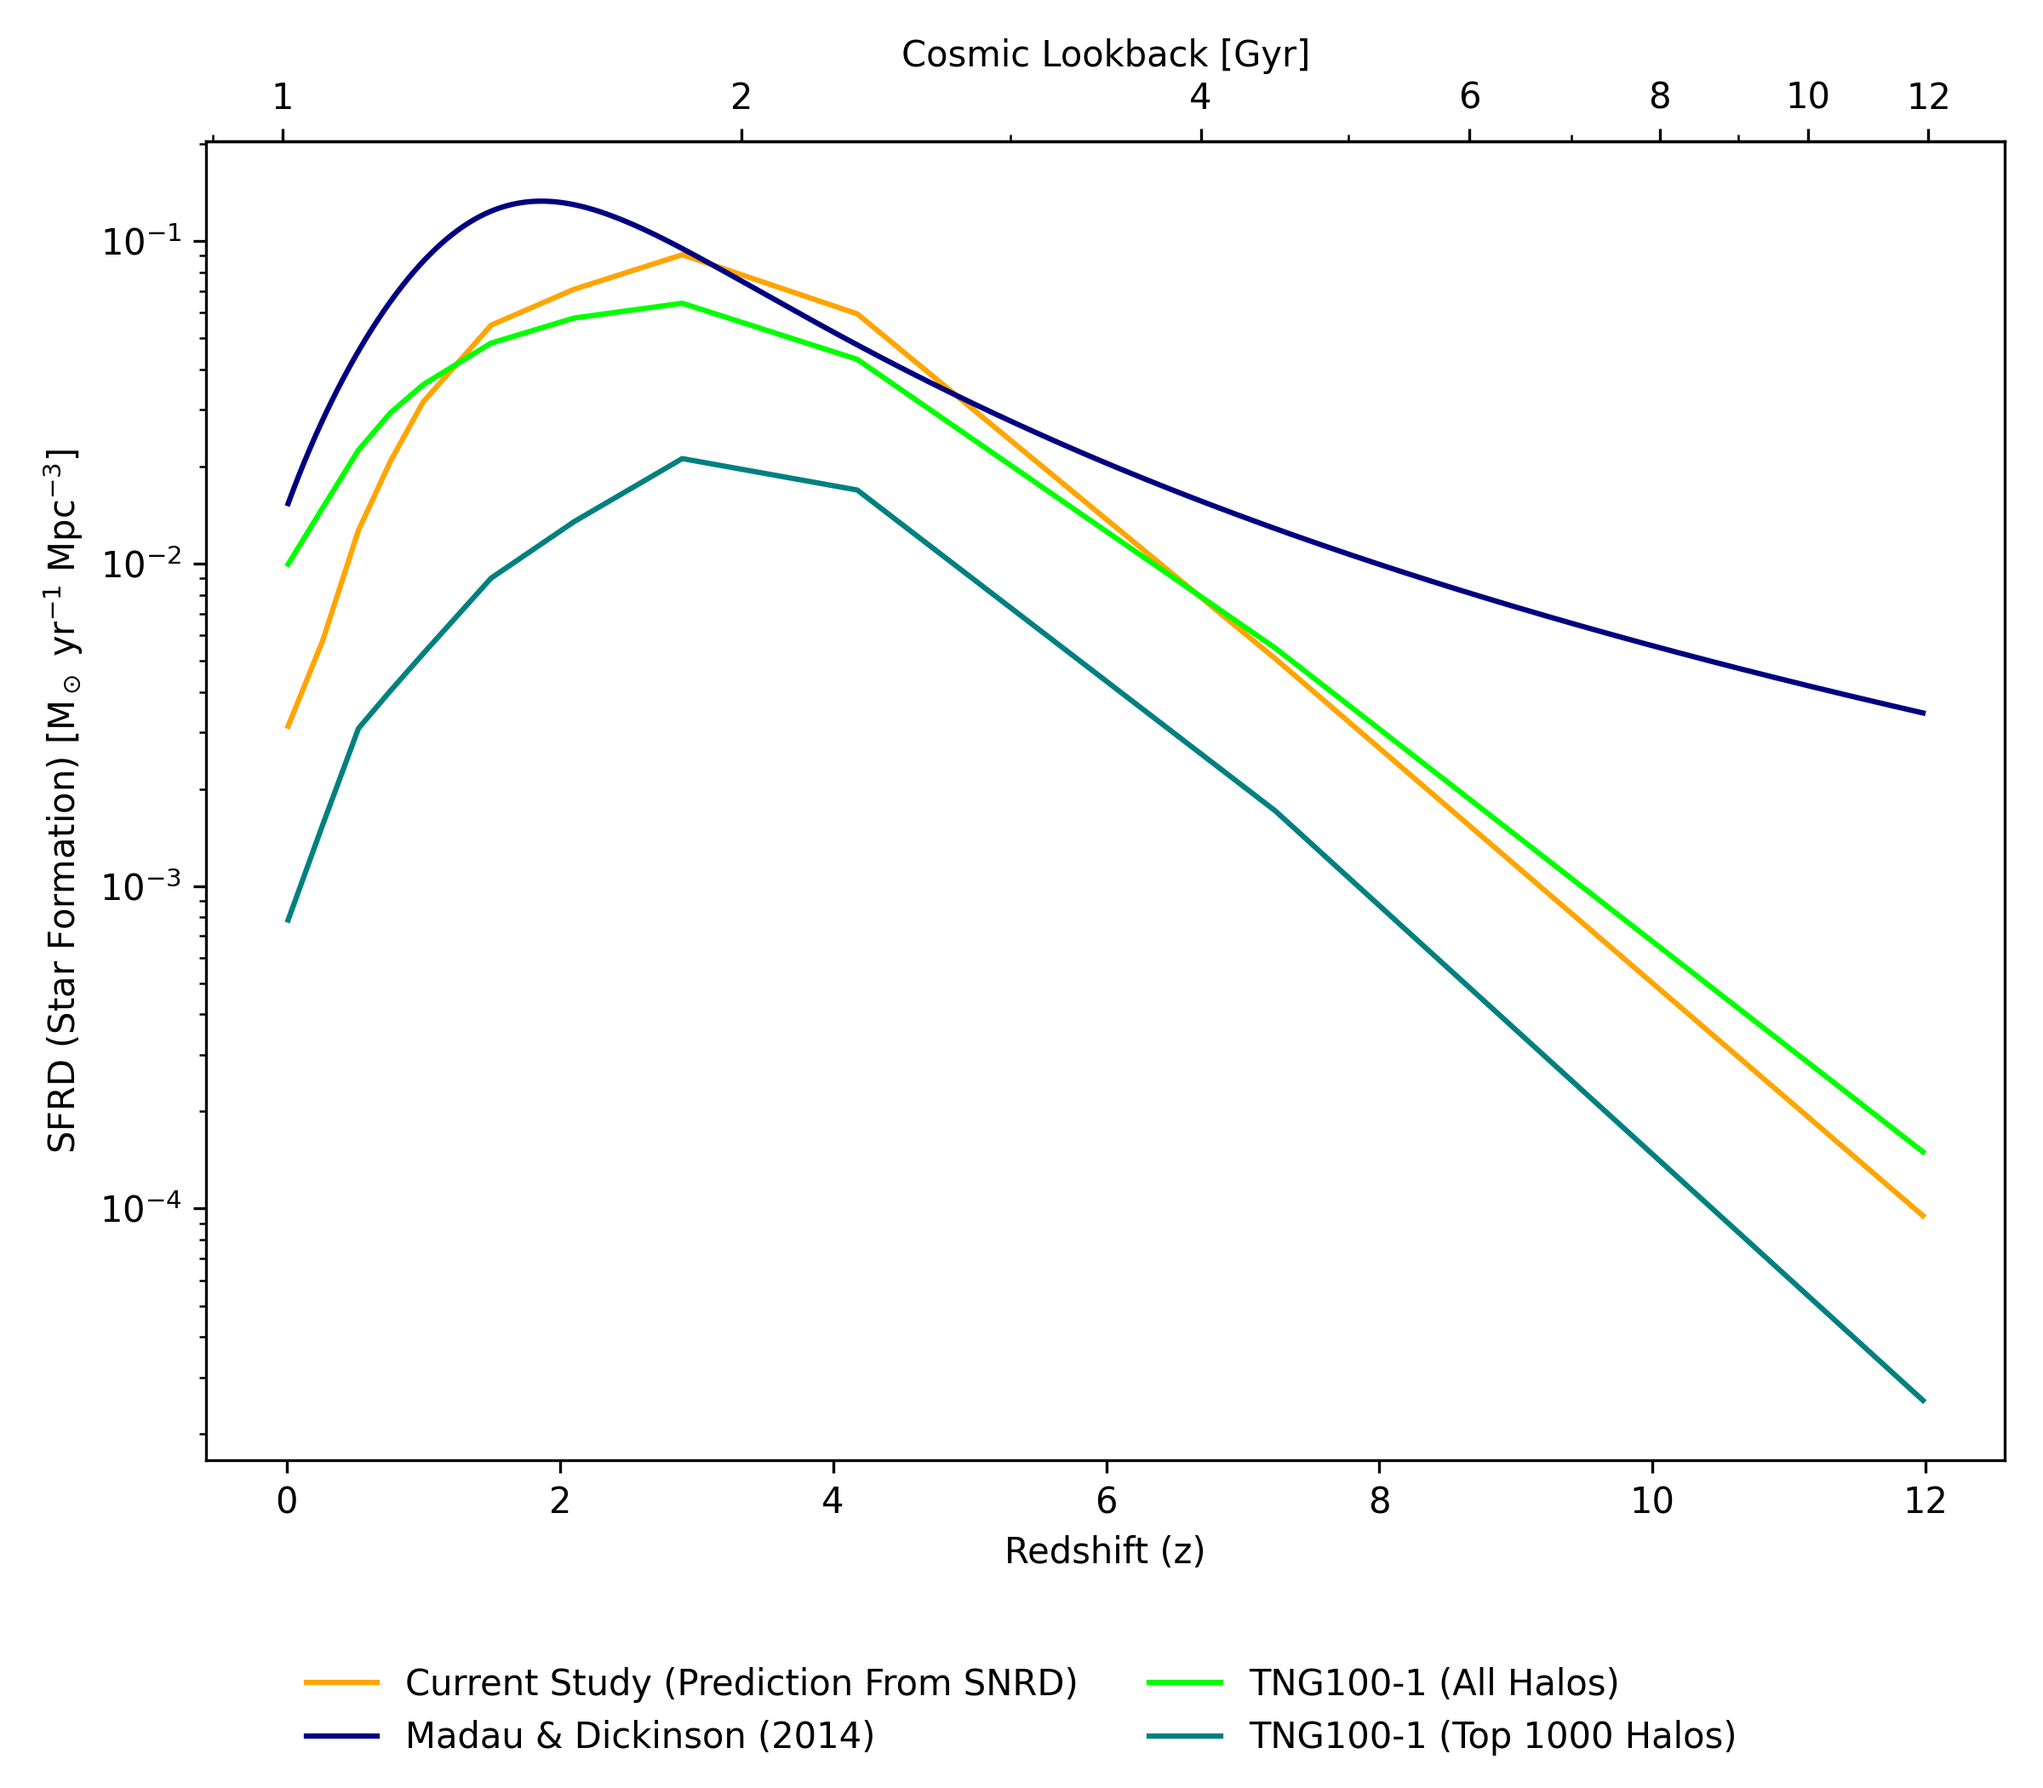
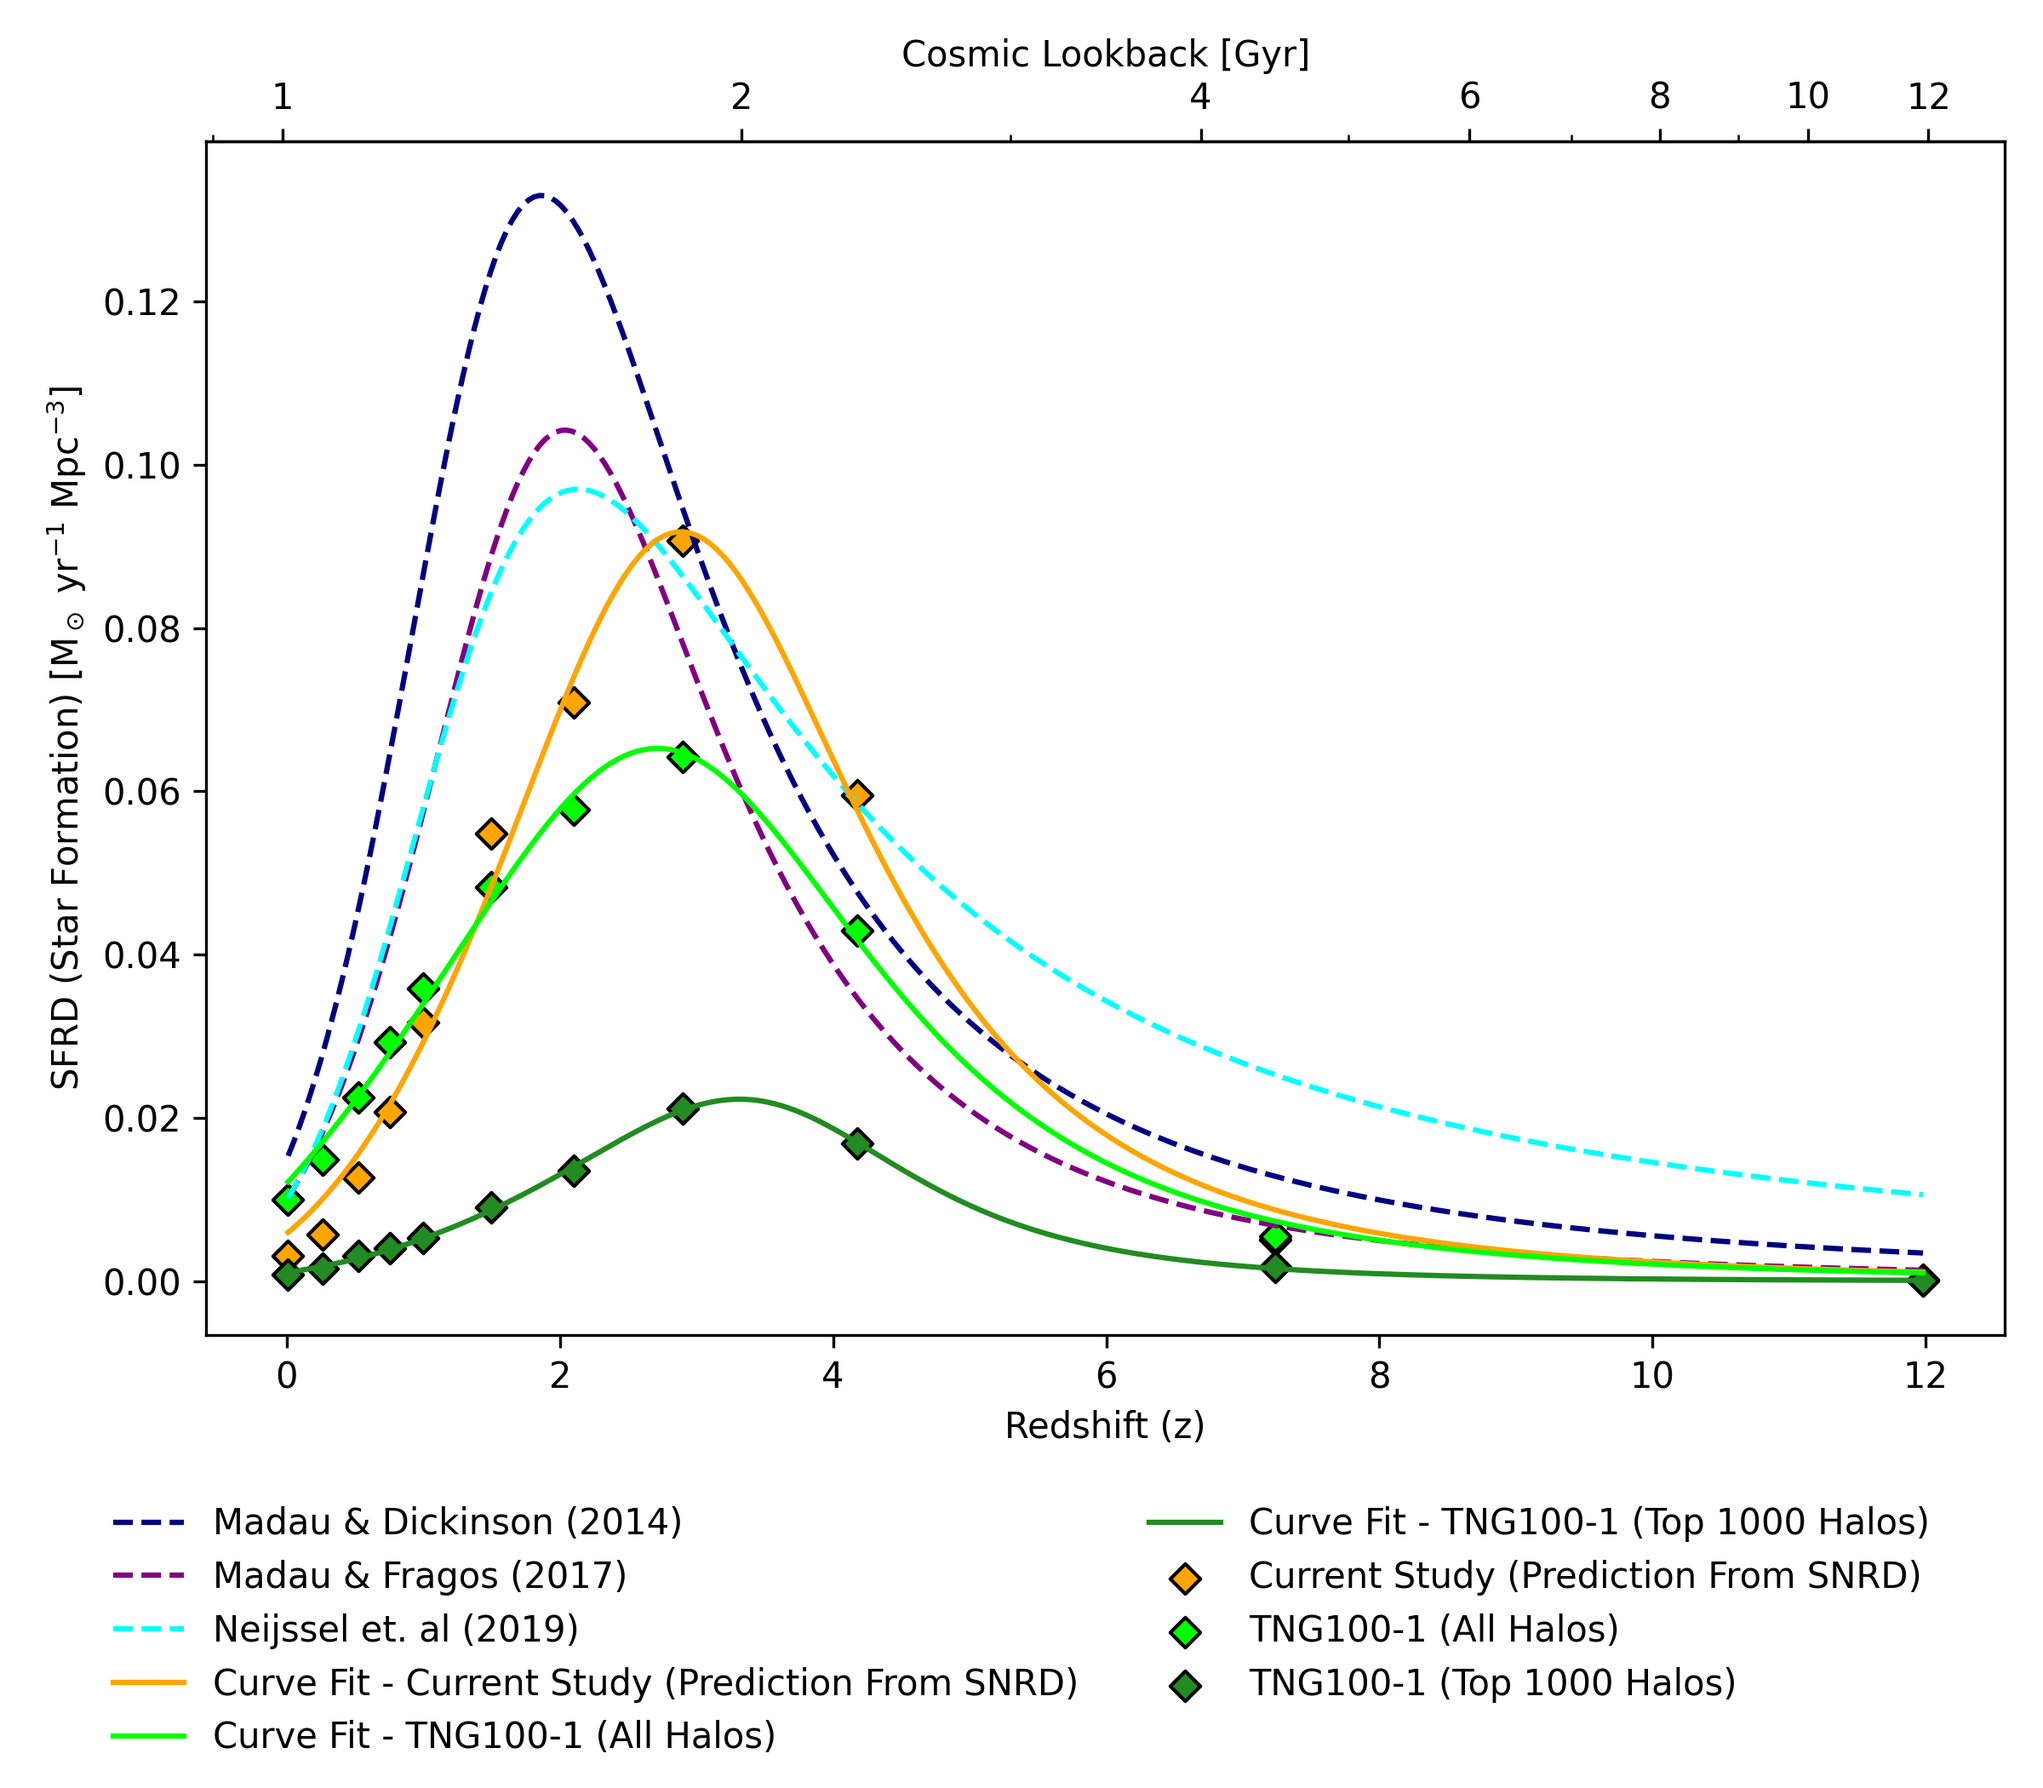
updated cosmic sfr and snr

diff --git a/tng.py b/tng.py
@@ -26,6 +26,8 @@ from astropy.cosmology import z_at_value
 from scipy.interpolate import interp1d
 from matplotlib.ticker import ScalarFormatter
 from matplotlib.colors import LogNorm
+from scipy.interpolate import make_interp_spline
+import matplotlib.ticker as ticker
 
 from matplotlib import cm
 from matplotlib.colors import Normalize 
@@ -214,9 +216,15 @@ def sfrd_func(z, a, b, c, d):
     return sfrd
 
 # curve fit values to MD2014
-def curve_md14(redshifts, array):
-    # Initial guess use the value isn madau and dickinson 
-    p0 = [0.015, 2.7, 2.9, 5.6]
+def curve_md14(redshifts, array, guess=1):
+    # Initial guess use md14, mf17 or nv19
+    if guess == 1:
+        p0 = [0.015, 2.7, 2.9, 5.6]
+    elif guess == 2:
+        p0 = [0.01, 2.6, 3.2, 6.2]
+    elif guess == 3:
+        p0 = [0.01, 2.77, 2.9, 4.7]
+
     params, cov = curve_fit(sfrd_func, redshifts, array, p0=p0)
     #print('params', params)
     x_linespace = np.linspace(redshifts.min(), redshifts.max(), 300)
@@ -456,6 +464,10 @@ def supernova_efficiency(_imf, sn_type=20):
     elif sn_type == 10:
         # 25 to 100 solar mass for type 1b/c
         numerator, _ = integrate.quad(_imf, 22, 100)
+    elif sn_type == 5:
+        # approximation for star formation conversion 
+        # 8 to 100 solar masses (include all regions)
+        numerator, _ = integrate.quad(_imf, 8, 100)
 
     return numerator/denominator
 
@@ -494,6 +506,8 @@ def cosmic_level(snaps, kcc_type):
     # convert from comoving to physical by multiplying by (1+z)^3
     redshift_linespace = np.linspace(rev_redshifts.min(), rev_redshifts.max(), 300)
     csfrh = 0.015 * pow((1 + redshift_linespace), 2.7)/(1 + pow((1 + redshift_linespace)/2.9, 5.6)) #* 1e9 #* pow((1 + redshift_linespace),3)
+    mf17 = 0.01 * pow((1 + redshift_linespace), 2.6)/(1 + pow((1 + redshift_linespace)/3.2, 6.2))
+    nv19 = 0.01 * pow((1 + redshift_linespace), 2.77)/(1 + pow((1 + redshift_linespace)/2.9, 4.7))  
 
     # snrd curve fits
     md14_snrd_scaled = curve_md14(rev_redshifts, rev_snrd_1000_scaled)
@@ -509,14 +523,14 @@ def cosmic_level(snaps, kcc_type):
     # formula is integral imf / integral mass * imf 
     # kcc given in Mo-1 
 
-    kcc_salpeter = supernova_efficiency(imf.salpeter, kcc_type)
     kcc_chabrier = supernova_efficiency(imf.chabrier, kcc_type)
-    kcc_chabrier_sys = supernova_efficiency(imf.chabrierSystem, kcc_type)
+    #kcc_salpeter = supernova_efficiency(imf.salpeter, kcc_type)
+    #kcc_chabrier_sys = supernova_efficiency(imf.chabrierSystem, kcc_type)
 
-    print('sn type', kcc_type, kcc_chabrier)
-    csnrh_salpeter = csfrh * kcc_salpeter
+    print(' CCSN', kcc_type, kcc_chabrier)
     csnrh_chabrier = csfrh * kcc_chabrier
-    csnrh_chabrier_sys = csfrh * kcc_chabrier_sys
+    #csnrh_salpeter = csfrh * kcc_salpeter
+    #csnrh_chabrier_sys = csfrh * kcc_chabrier_sys
 
     # trace sfrd using snrd 
     # use new units snrd in yr-1 Mpc-3 and divide by kcc (Mo-1) gets Mo yr-1 Mpc-3 (SFRD)
@@ -559,8 +573,10 @@ def cosmic_level(snaps, kcc_type):
     plt_labels(fig_csfrh, ax_csfrd, 2)
 
     #return md14_snrd_scaled, csfrh_kcc_chabrier, csnrh_chabrier, csfrh
-    return rev_snrd_1000_scaled, csfrh_kcc_chabrier_raw, csnrh_chabrier, csfrh, rev_sfrd_all, rev_sfrd_1000
+    return rev_snrd_1000_scaled, csfrh_kcc_chabrier_raw, csnrh_chabrier, csfrh, rev_sfrd_all, rev_sfrd_1000, mf17, nv19
 
+""""""""""""""""""""""""""""""""""""""""""""""""""""""""""""""""""""""""""""""
+# region Build
 snapshots = [2, 10, 20, 26, 32, 40, 50, 57, 66, 80, 98]
 
 build = False
@@ -572,13 +588,15 @@ if build == True:
         for f in tqdm(as_completed(futures), total=len(futures)):
             results.append(f.result())
 
+""""""""""""""""""""""""""""""""""""""""""""""""""""""""""""""""""""""""""""""
+#region Graphs
 _, redshifts = calculated_sfrd()
 rev_redshifts = np.array(redshifts)[::-1]
 redshift_linespace = np.linspace(rev_redshifts.min(), rev_redshifts.max(), 300)
 fig_types1, ax_types1, _ = plt_cosmo(rev_redshifts, r'SNRD (Supernova) [$\mathrm{yr^{-1}\ Mpc^{-3}}$]', space=0.2)
 
-fig_total_sfr, ax_total_sfr, _ = plt_cosmo(rev_redshifts, r'SFRD (Star Formation) [$\mathrm{M_\odot\ yr^{-1}\ Mpc^{-3}}$]', space=0.2)
-fig_total_snr, ax_total_snr, _ = plt_cosmo(rev_redshifts, r'SNRD (Supernova) [$\mathrm{yr^{-1}\ Mpc^{-3}}$]', space=0.2)
+fig_total_sfr, ax_total_sfr, _ = plt_cosmo(rev_redshifts, r'SFRD (Star Formation) [$\mathrm{M_\odot\ yr^{-1}\ Mpc^{-3}}$]', space=0.3)
+fig_total_snr, ax_total_snr, _ = plt_cosmo(rev_redshifts, r'SNRD (Supernova) [$\mathrm{10^{-4} yr^{-1}\ Mpc^{-3}}$]', space=0.2)
 
 all_sn_types = ["IIP", "II-Other", "Ib", "Ic"]
 
@@ -599,9 +617,11 @@ for i, sn_type in enumerate(all_sn_types):
     else:
         kcc_type = None
 
+    # call functions to get rates
     halo_level(snapshots)
-    snrd, sfrh, snrd_md14, sfrh_md14, sfrh_halos, sfrh_1000 = cosmic_level(snapshots, kcc_type)
+    snrd, sfrh, snrd_md14_, sfrh_md14, sfrh_halos, sfrh_1000, sfrh_mf17, sfrh_nv19 = cosmic_level(snapshots, kcc_type)
 
+    # sum the sf and sn rates to get a total
     if len(total_sfr) == 0:
         total_sfr = sfrh
     else:
@@ -625,17 +645,63 @@ for i, sn_type in enumerate(all_sn_types):
 ax_types1.plot(rev_redshifts, total_snr, label=f'Total', linestyle='--', color=sn_colours[4])
 plt_labels(fig_types1, ax_types1, 3)
 
-ax_total_sfr.plot(rev_redshifts, total_sfr, label=f'Current Study (Prediction From SNRD)', color='orange')
-ax_total_sfr.plot(redshift_linespace, sfrh_md14, label=f'Madau & Dickinson (2014)', color='navy')
-ax_total_sfr.plot(rev_redshifts, sfrh_halos, label=f'TNG100-1 (All Halos)', color='lime')
-ax_total_sfr.plot(rev_redshifts, sfrh_1000, label=f'TNG100-1 (Top 1000 Halos)', color='teal')
-plt_labels(fig_total_sfr, ax_total_sfr, 2, 0.1)
+""""""""""""""""""""""""""""""""""""""""""""""""""""""""""""""""""""""""""""""
+#region STAR Formation graph
+# curve fit - guess using nv19 (closest to our values)
+curve_sfr = curve_md14(rev_redshifts, total_sfr, 3)
+curve_all = curve_md14(rev_redshifts, sfrh_halos, 3)
+curve_100 = curve_md14(rev_redshifts, sfrh_1000, 3)
 
-kcc = supernova_efficiency(imf.chabrier)
-ax_total_snr.plot(rev_redshifts, total_snr, label=f'Current Study', color='orange')
-ax_total_snr.plot(redshift_linespace, snrd_md14, label=f'Madau & Dickinson (2014)', color='navy')
-ax_total_snr.plot(rev_redshifts, sfrh_halos * kcc, label=f'Prediction from TNG100-1 SFRD (All Halo)', color='lime')
-plt_labels(fig_total_snr, ax_total_snr, 2, 0.07)
+# plot lines
+ax_total_sfr.plot(redshift_linespace, sfrh_md14, label=f'Madau & Dickinson (2014)', color='navy', ls='--')
+ax_total_sfr.plot(redshift_linespace, sfrh_mf17, label=f'Madau & Fragos (2017)', color='purple', ls='--')
+ax_total_sfr.plot(redshift_linespace, sfrh_nv19, label=f'Neijssel et. al (2019)', color='cyan', ls='--')
+ax_total_sfr.plot(redshift_linespace, curve_sfr, label=f'Curve Fit - Current Study (Prediction From SNRD)', color='orange')
+ax_total_sfr.plot(redshift_linespace, curve_all, label=f'Curve Fit - TNG100-1 (All Halos)', color='lime')
+ax_total_sfr.plot(redshift_linespace, curve_100, label=f'Curve Fit - TNG100-1 (Top 1000 Halos)', color='forestgreen')
+
+# scatter
+ax_total_sfr.scatter(rev_redshifts, total_sfr, label=f'Current Study (Prediction From SNRD)', color='orange', marker='D', edgecolors='black')
+ax_total_sfr.scatter(rev_redshifts, sfrh_halos, label=f'TNG100-1 (All Halos)', color='lime', marker='D', edgecolors='black')
+ax_total_sfr.scatter(rev_redshifts, sfrh_1000, label=f'TNG100-1 (Top 1000 Halos)', color='forestgreen', marker='D', edgecolors='black')
+
+plt_labels(fig_total_sfr, ax_total_sfr, 2, 0.17)
+ax_total_sfr.set_yscale('linear')
+
+""""""""""""""""""""""""""""""""""""""""""""""""""""""""""""""""""""""""""""""
+#region Supernova rate graph
+# curve fit the scatter data 
+curve_snr = curve_md14(rev_redshifts, total_snr, 3)
+
+# apply a generic kcc scaling the star formation predictions
+# there is no supernova types depdenance so cannot dynamically change it 
+kcc = (supernova_efficiency(imf.chabrier, 20) + supernova_efficiency(imf.chabrier, 25) + supernova_efficiency(imf.chabrier, 10))/3
+print('scaling;', kcc)
+
+# prep predictions again (could move them out of func)
+# remake md14 as we do not want to use snrd_md14_ from above as this will have kcc corrosponding to Ic supernova (high mass)
+# this will be smaller than the averaged prediction from above 
+snrd_md14 = 0.015 * pow((1 + redshift_linespace), 2.7)/(1 + pow((1 + redshift_linespace)/2.9, 5.6)) * kcc
+snrd_mf17 = 0.01 * pow((1 + redshift_linespace), 2.6)/(1 + pow((1 + redshift_linespace)/3.2, 6.2)) * kcc
+snrd_nv19 = 0.01 * pow((1 + redshift_linespace), 2.77)/(1 + pow((1 + redshift_linespace)/2.9, 4.7)) * kcc
+
+# plot lines
+ax_total_snr.plot(redshift_linespace, snrd_md14, label=f'Madau & Dickinson (2014)', color='navy', ls='--')
+ax_total_snr.plot(redshift_linespace, snrd_mf17, label=f'Madau & Fragos (2017)', color='purple', ls='--')
+ax_total_snr.plot(redshift_linespace, snrd_nv19, label=f'Neijssel et. al (2019)', color='cyan', ls='--')
+ax_total_snr.plot(redshift_linespace, curve_snr, label=f'Curve Fit - Current Study', color='orange')
+#ax_total_snr.plot(redshift_linespace, curve_all * kcc, label=f'Curve Fit - TNG100-1 (All Halos)', color='lime')
+
+# scatter
+ax_total_snr.scatter(rev_redshifts, total_snr, label=f'Current Study', color='orange', marker='D', edgecolors='black')
+#ax_total_snr.scatter(rev_redshifts, sfrh_halos * kcc, label=f'TNG100-1 (All Halos)', color='lime', marker='D', edgecolors='black')
+
+# set legend and axes
+ax_total_snr.set_yscale('linear')
+ax_total_snr.yaxis.set_major_formatter(
+    ticker.FuncFormatter(lambda val, pos: f'{val*1e4:g}')
+)
+plt_labels(fig_total_snr, ax_total_snr, 2, 0.17)
 
 fig_types1.savefig("Data/Images/TNG/final/cosmic_type.png", dpi=300)
 fig_total_sfr.savefig(f"Data/Images/TNG/final/cosmic_sfh.png", dpi=300)
@@ -644,6 +710,9 @@ fig_total_snr.savefig(f"Data/Images/TNG/final/cosmic_snh.png", dpi=300)
 plt.close(fig_total_sfr)
 plt.close(fig_total_snr)
 
+
+""""""""""""""""""""""""""""""""""""""""""""""""""""""""""""""""""""""""""""""
+#region Fractions
 def myfunc(x):
   return slope * x + intercept
 
